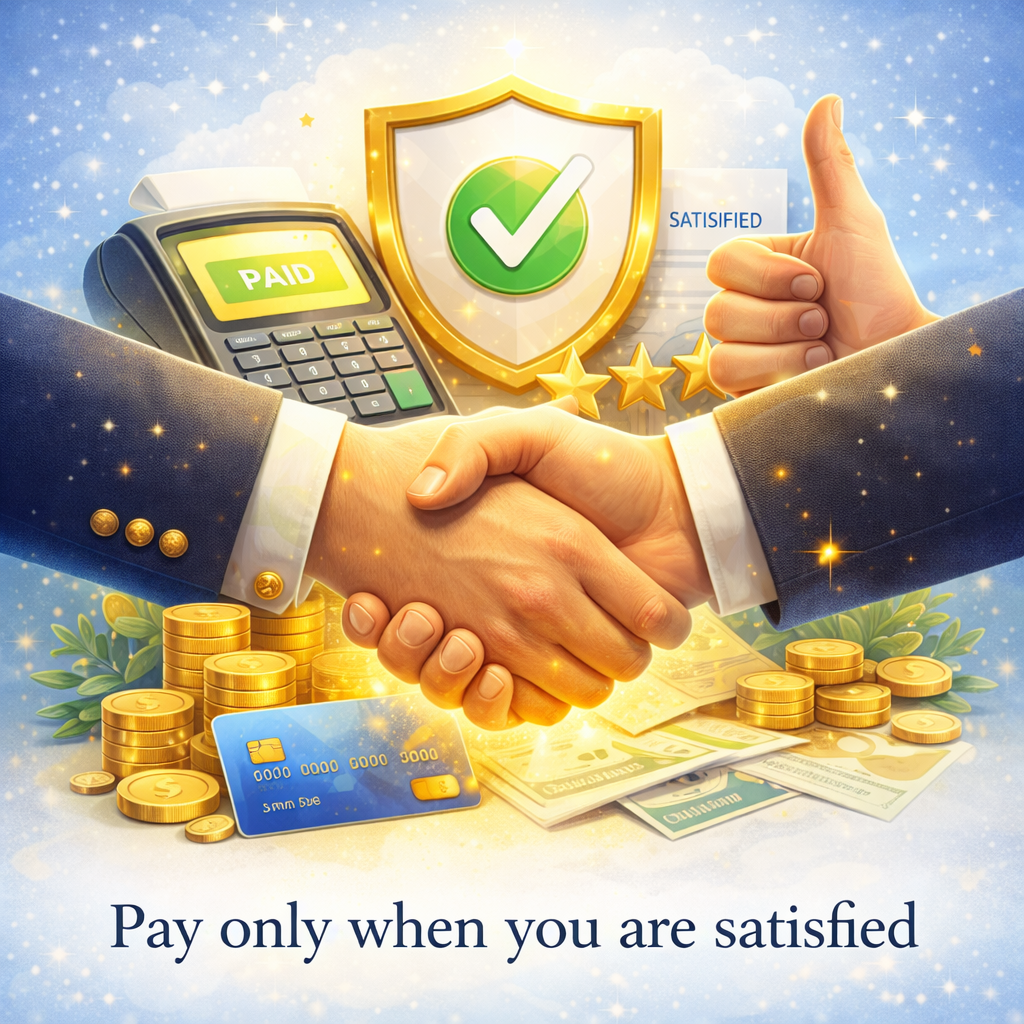
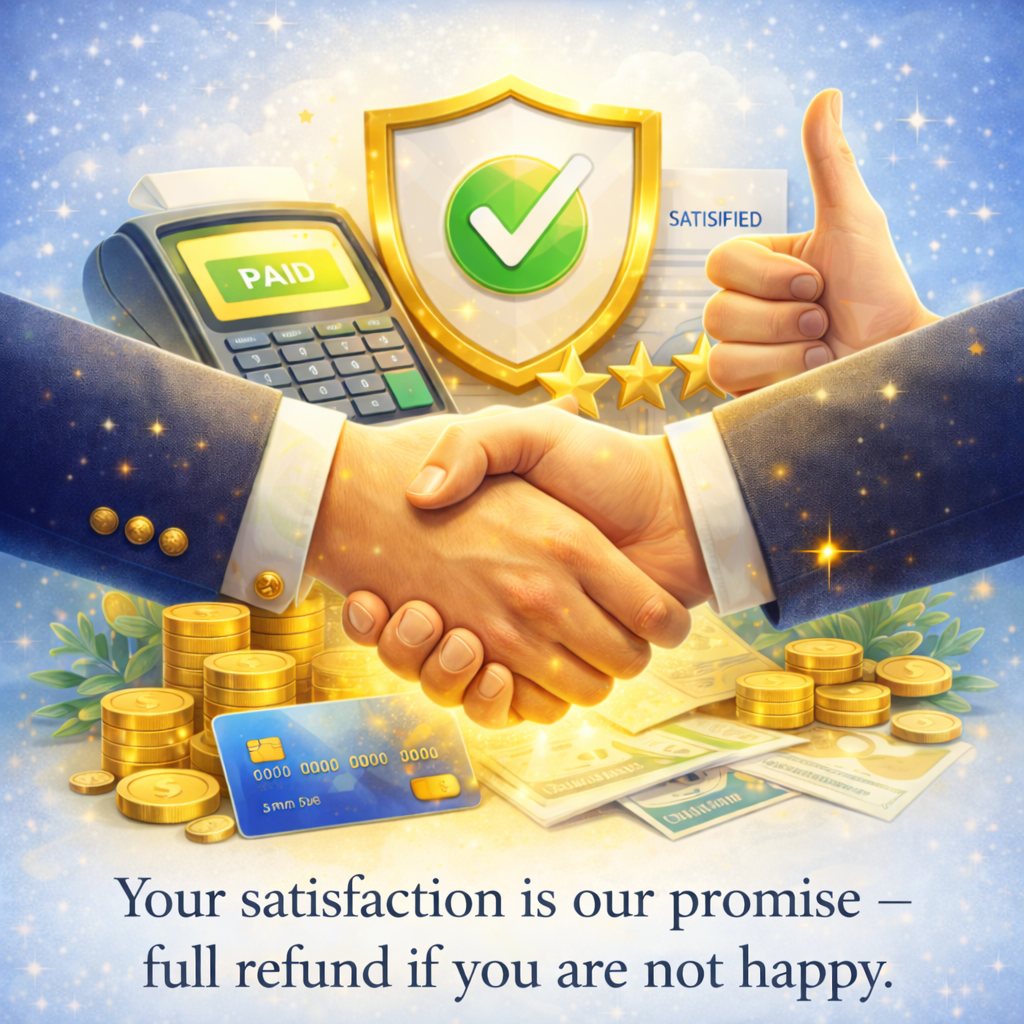
changes complete

diff --git a/src/LocalContent/payment.js b/src/LocalContent/payment.js
@@ -11,12 +11,12 @@ const PaymentHeaderImage = {
 const FeeStruc = {
     title:"Siva Nadi Fees Structure",
     image:Feestrucimg,
-    content:`We believe trust is earned, not demanded.
-Your satisfaction is our highest priority, and we stand by the accuracy and integrity of our guidance.
-There are no hidden conditions — you decide the value of our service after experiencing it.
-We are committed to delivering clarity, honesty, and meaningful insights in every consultation.
-Only when you feel truly satisfied and confident in the service provided should you proceed with payment.
-Your peace of mind matters more to us than anything else.`
+    content:`We believe trust is earned through transparency and genuine service.
+Your satisfaction is our promise, and we confidently stand behind the accuracy and integrity of our guidance.
+There are no hidden conditions — if you are not completely satisfied, we offer a full refund.
+Our commitment is to provide clarity, honesty, and meaningful spiritual insights in every consultation.
+We encourage you to experience our service with complete peace of mind and confidence.
+Your happiness and trust matter more to us than anything else.`
 }
 
 const AccountDetails = {

diff --git a/src/components/Payment/AccountDetails/AccountDetails.module.css b/src/components/Payment/AccountDetails/AccountDetails.module.css
@@ -6,12 +6,13 @@
   display: flex;
   flex-direction: column;
   align-items: center;
-  
+  background: #fafafa;
+   border-radius: 12px;
   gap: 1rem;
   font-family: 'Poppins', sans-serif;
   padding: 1rem;
   padding-bottom: 2rem;
-  width: 95%;
+  width: 80%;
   margin: 0 auto;
 }
 

diff --git a/src/LocalContent/AboutUs.js b/src/LocalContent/AboutUs.js
@@ -32,7 +32,7 @@ Nadi Astrology, practiced primarily in Tamil Nadu, South India, is traditionally
 
 const AboutHeaderImage = {
     image:AboutUsHeader,
-    title:"About Nadi Atrology"
+    title:"About Nadi Astrology"
 }
 
 const Ourservice = 
